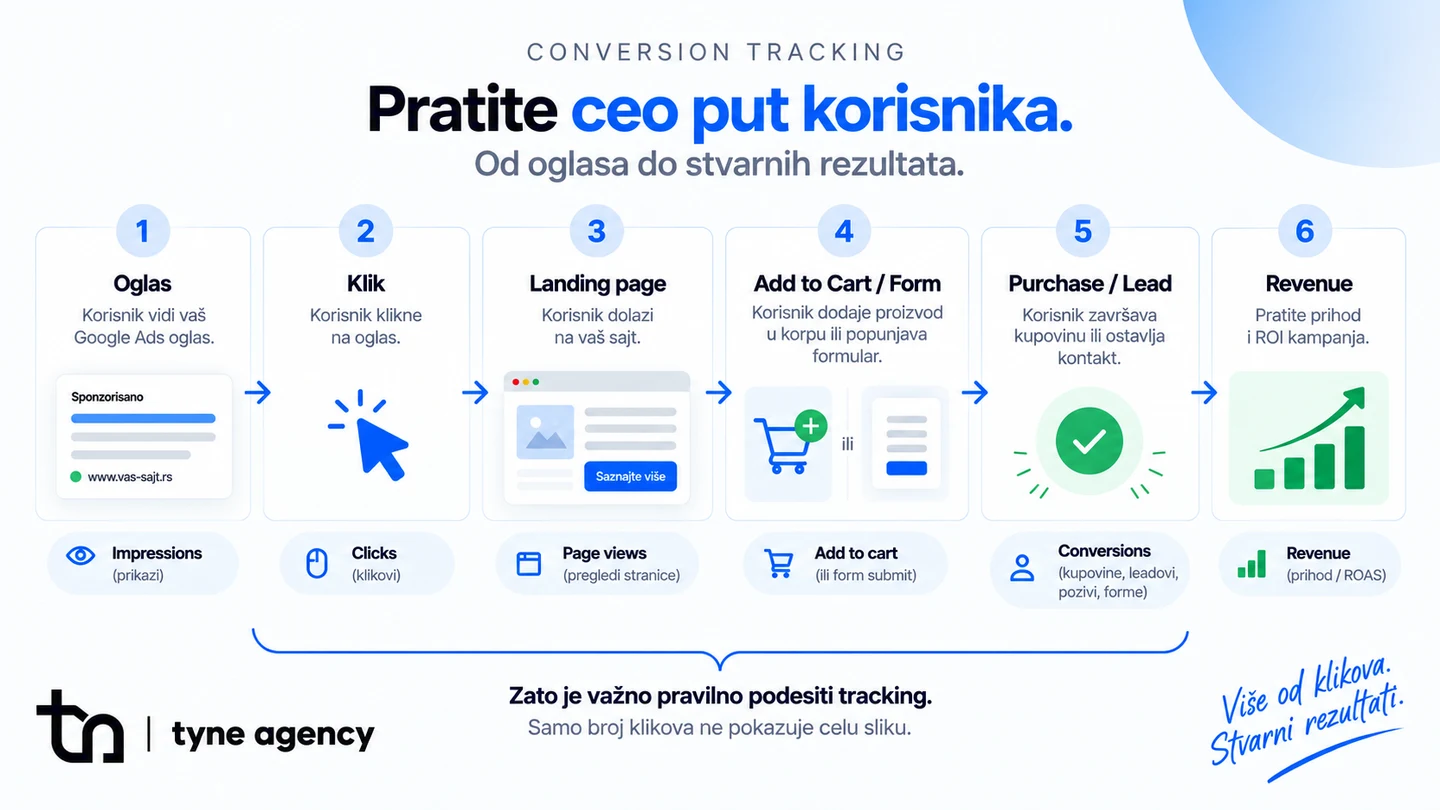
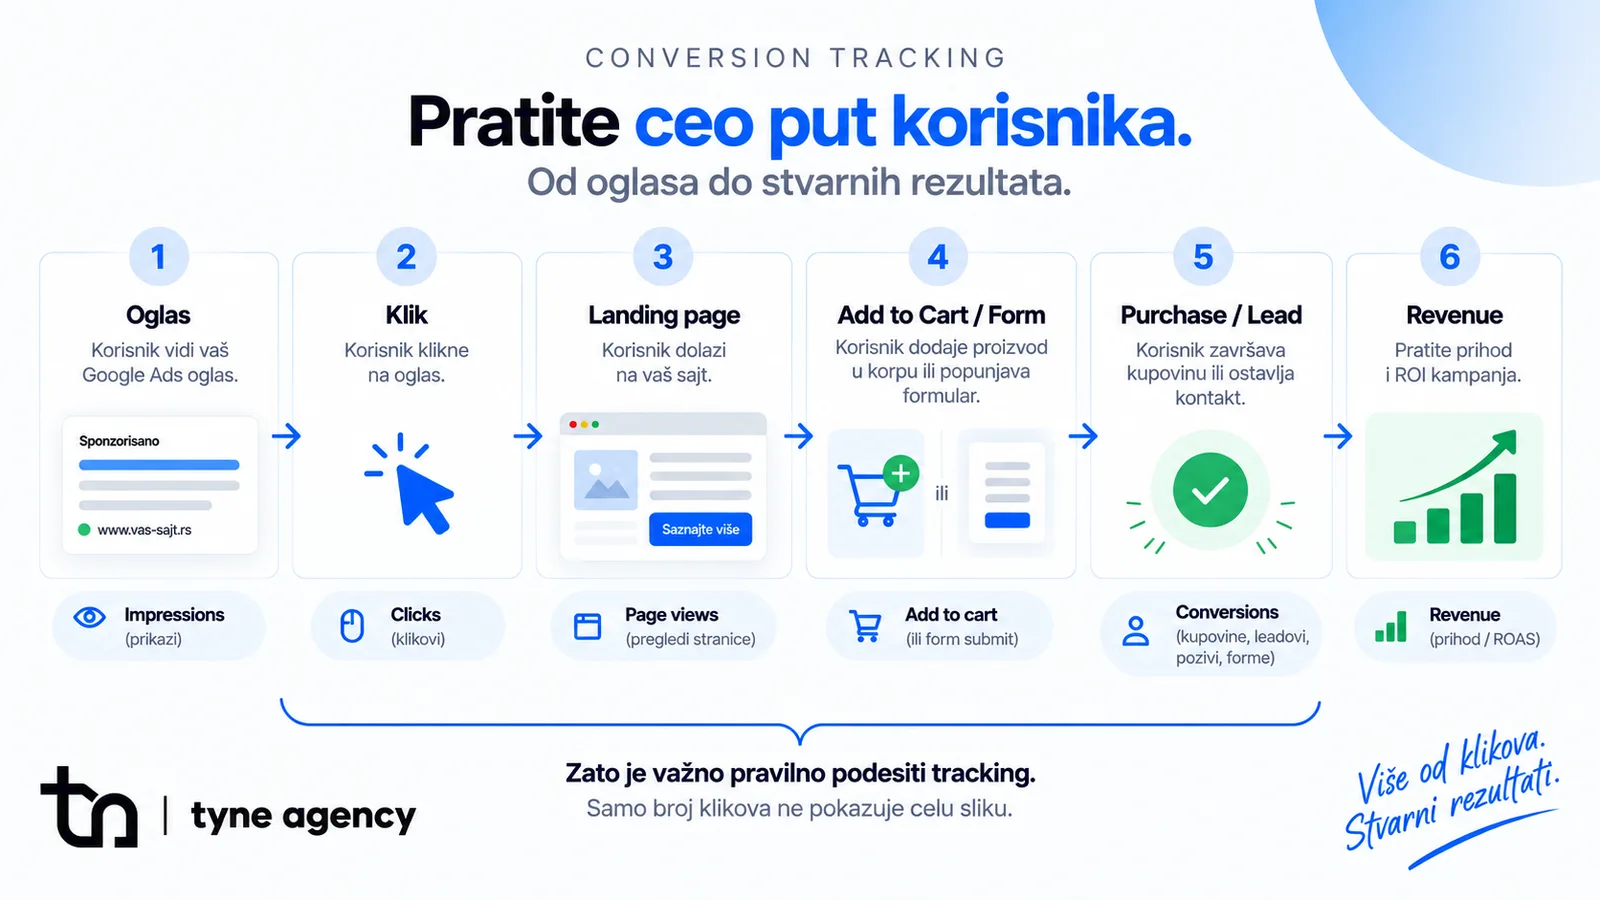
refractor: change thumbnail and image / text order in first blog

diff --git a/src/content/blog/en/google-ads-sta-je-kako-funkcionise.md b/src/content/blog/en/google-ads-sta-je-kako-funkcionise.md
@@ -17,6 +17,8 @@ Unlike traditional advertising, where you pay to have your message seen by as ma
 
 In this guide, we cover the fundamentals of Google Ads — from your first ad to measuring results.
 
+![A Google Ads ad in search results — example of a sponsored result](/blog/google-ads-sta-je-kako-funkcionise/google-ads-primer-pretrage.webp)
+
 ## What is Google Ads?
 
 Google Ads is Google's advertising platform, allowing companies to pay to promote products and services to users on Google Search and across other Google channels.
@@ -35,7 +37,7 @@ When a user runs a relevant search, Google evaluates which ads can be shown and 
 
 That's why simply paying more doesn't guarantee the top spot. Results are influenced by ad relevance, landing page experience quality, competition, and other factors in Google's ad auction system.
 
-![How Google Ads works — from search to conversion](/blog/google-ads-sta-je-kako-funkcionise/diagram-kako-funkcionise.webp)
+![How Google Ads works — from search to conversion](/blog/google-ads-sta-je-kako-funkcionise/kako-funkcionise-aukcija.webp)
 
 ## What are keywords?
 
@@ -46,8 +48,6 @@ If you run an agency offering Google Ads services, relevant searches might inclu
 If you run a plumbing company, relevant searches might include "plumber London," "emergency plumber," and "plumber near me."
 
 The goal isn't to show your ad for as many searches as possible. The goal is to show it for relevant searches that have the potential to bring in the right customer.
-
-![The Google Ads ecosystem — Search, Shopping, Performance Max, Display, and Remarketing](/blog/google-ads-sta-je-kako-funkcionise/ekosistem-kanali.webp)
 
 ## Search campaigns: when a user is actively looking for your product or service
 
@@ -81,6 +81,8 @@ Display can serve different roles, including remarketing, building awareness, pr
 
 For example, a user might visit an online store, look at a product, but not complete a purchase. Later, they might see an ad for that same brand while browsing other sites. That's one example of remarketing.
 
+![The Google Ads ecosystem — Search, Shopping, Performance Max, Display, and Remarketing](/blog/google-ads-sta-je-kako-funkcionise/google-ads-ekosistem.webp)
+
 ## How much does Google Ads cost?
 
 There's no universal price.
@@ -98,8 +100,6 @@ Budget depends on market size, average cost per click, competition, the value of
 A local business targeting a single city may need a completely different budget than an e-commerce company selling nationwide.
 
 That's why budget should be viewed in the context of your business economics, not just as a fixed monthly number.
-
-![Google Ads metrics — CPC, CTR, Conversion, and ROAS explained with formulas](/blog/google-ads-sta-je-kako-funkcionise/metrike-cpc-ctr-roas.webp)
 
 ## What is CPC?
 
@@ -127,6 +127,18 @@ For e-commerce businesses, the main conversion will often be a purchase. For a l
 
 That's why it's essential to define what a successful outcome actually means for your specific business.
 
+## What is ROAS?
+
+ROAS — Return on Ad Spend — shows how much revenue you generate relative to what you spend on ads.
+
+If you spend €1,000 on Google Ads and generate €5,000 in revenue, your ROAS is 5x.
+
+But ROAS isn't the same as profit. If margins are thin, product costs are high, or there are other operating costs, a campaign with a high ROAS isn't automatically the most profitable one.
+
+That's why ROAS should be viewed in the context of your overall business economics.
+
+![Google Ads metrics — CPC, CTR, Conversion, and ROAS explained with formulas](/blog/google-ads-sta-je-kako-funkcionise/metrike-cpc-ctr-roas.webp)
+
 ## Why is conversion tracking so important?
 
 One of the biggest mistakes in Google Ads advertising is looking only at clicks and impressions.
@@ -138,16 +150,6 @@ That's why conversion tracking needs to be set up correctly. Depending on the bu
 Tools like Google Analytics 4 (GA4) and Google Tag Manager (GTM) are often part of that tracking infrastructure. For e-commerce in particular, it's important — wherever possible — to track not just the number of purchases but the actual revenue value generated.
 
 ![Conversion tracking — following the full user journey from ad to revenue](/blog/google-ads-sta-je-kako-funkcionise/conversion-tracking.webp)
-
-## What is ROAS?
-
-ROAS — Return on Ad Spend — shows how much revenue you generate relative to what you spend on ads.
-
-If you spend €1,000 on Google Ads and generate €5,000 in revenue, your ROAS is 5x.
-
-But ROAS isn't the same as profit. If margins are thin, product costs are high, or there are other operating costs, a campaign with a high ROAS isn't automatically the most profitable one.
-
-That's why ROAS should be viewed in the context of your overall business economics.
 
 ## Google Ads isn't "set it and forget it"
 

diff --git a/src/content/blog/sr/google-ads-sta-je-kako-funkcionise.md b/src/content/blog/sr/google-ads-sta-je-kako-funkcionise.md
@@ -17,6 +17,8 @@ Za razliku od tradicionalnog oglašavanja, gde plaćate da vašu poruku vidi št
 
 U ovom vodiču objašnjavamo osnove Google Ads oglašavanja, od prvog oglasa do merenja rezultata.
 
+![Google Ads oglas u rezultatima pretrage — primer sponzorisanog oglasa](/blog/google-ads-sta-je-kako-funkcionise/google-ads-primer-pretrage.webp)
+
 ## Šta je Google Ads?
 
 Google Ads je platforma kompanije Google koja omogućava kompanijama da plaćeno promovišu proizvode i usluge korisnicima na Google pretraživaču i drugim Google kanalima.
@@ -35,7 +37,7 @@ Kada korisnik izvrši relevantnu pretragu, Google procenjuje koji oglasi mogu bi
 
 Zato nije dovoljno samo platiti više da biste bili na prvom mestu. Na rezultate utiču relevantnost oglasa, kvalitet iskustva na odredišnoj stranici, konkurencija i drugi faktori Google-ovog sistema aukcije oglasa.
 
-![Kako Google Ads funkcioniše — od pretrage do konverzije](/blog/google-ads-sta-je-kako-funkcionise/diagram-kako-funkcionise.webp)
+![Kako Google Ads funkcioniše — od pretrage do konverzije](/blog/google-ads-sta-je-kako-funkcionise/kako-funkcionise-aukcija.webp)
 
 ## Šta su ključne reči (keywords)?
 
@@ -46,8 +48,6 @@ Ako imate agenciju koja pruža Google Ads usluge, relevantne pretrage mogu biti 
 Ako imate vodoinstalatersku firmu, relevantne pretrage mogu biti „vodoinstalater Beograd", „hitno vodoinstalater" i „vodoinstalater Novi Beograd".
 
 Cilj nije da se oglas prikazuje za što veći broj pretraga. Cilj je da se prikazuje za relevantne pretrage koje imaju potencijal da dovedu pravog kupca.
-
-![Google Ads ekosistem — Search, Shopping, Performance Max, Display i Remarketing](/blog/google-ads-sta-je-kako-funkcionise/ekosistem-kanali.webp)
 
 ## Search kampanje: kada korisnik aktivno traži vaš proizvod ili uslugu
 
@@ -81,6 +81,8 @@ Display može imati različite uloge, uključujući remarketing, izgradnju aware
 
 Na primer, korisnik može posetiti online prodavnicu, pogledati proizvod, ali ne obaviti kupovinu. Kasnije može videti oglas tog brenda dok posećuje druge sajtove. To je jedan od primera remarketinga.
 
+![Google Ads ekosistem — Search, Shopping, Performance Max, Display i Remarketing](/blog/google-ads-sta-je-kako-funkcionise/google-ads-ekosistem.webp)
+
 ## Koliko košta Google Ads?
 
 Ne postoji univerzalna cena.
@@ -98,8 +100,6 @@ Budžet zavisi od veličine tržišta, prosečne cene klika, konkurencije, vredn
 Lokalnom biznisu koji cilja samo jedan grad može biti potreban potpuno drugačiji budžet od e-commerce kompanije koja želi da prodaje širom Srbije.
 
 Zato budžet treba posmatrati u kontekstu ekonomije biznisa, a ne samo kao fiksan mesečni iznos.
-
-![Google Ads metrike — CPC, CTR, Conversion i ROAS objašnjeni kroz formule](/blog/google-ads-sta-je-kako-funkcionise/metrike-cpc-ctr-roas.webp)
 
 ## Šta je CPC?
 
@@ -127,6 +127,18 @@ Kod e-commerce biznisa glavna konverzija će često biti purchase. Kod lokalnog 
 
 Zbog toga je veoma važno definisati šta za konkretan biznis znači uspešan rezultat.
 
+## Šta je ROAS?
+
+ROAS — Return on Ad Spend — pokazuje koliko prihoda generišete u odnosu na iznos potrošen na oglase.
+
+Ako potrošite 1.000 € na Google Ads i ostvarite 5.000 € prihoda, ROAS je 5x.
+
+Ali ROAS nije isto što i profit. Ako su marže niske, troškovi proizvoda visoki ili postoje drugi operativni troškovi, kampanja sa visokim ROAS-om ne mora automatski biti najprofitabilnija.
+
+Zato ROAS treba posmatrati u kontekstu celokupne ekonomije biznisa.
+
+![Google Ads metrike — CPC, CTR, Conversion i ROAS objašnjeni kroz formule](/blog/google-ads-sta-je-kako-funkcionise/metrike-cpc-ctr-roas.webp)
+
 ## Zašto je conversion tracking toliko važan?
 
 Jedna od najvećih grešaka u Google Ads oglašavanju jeste posmatranje samo klikova i impresija.
@@ -138,16 +150,6 @@ Zato je potrebno pravilno postaviti conversion tracking. U zavisnosti od biznisa
 Alati poput Google Analytics 4 (GA4) i Google Tag Manager-a (GTM) mogu biti deo tracking infrastrukture. Za e-commerce je posebno važno da se, kada je moguće, ne prati samo broj kupovina već i vrednost ostvarenog prihoda.
 
 ![Conversion tracking — praćenje celog puta korisnika od oglasa do prihoda](/blog/google-ads-sta-je-kako-funkcionise/conversion-tracking.webp)
-
-## Šta je ROAS?
-
-ROAS — Return on Ad Spend — pokazuje koliko prihoda generišete u odnosu na iznos potrošen na oglase.
-
-Ako potrošite 1.000 € na Google Ads i ostvarite 5.000 € prihoda, ROAS je 5x.
-
-Ali ROAS nije isto što i profit. Ako su marže niske, troškovi proizvoda visoki ili postoje drugi operativni troškovi, kampanja sa visokim ROAS-om ne mora automatski biti najprofitabilnija.
-
-Zato ROAS treba posmatrati u kontekstu celokupne ekonomije biznisa.
 
 ## Google Ads nije „podesi i zaboravi"
 
